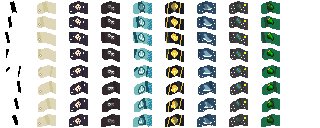
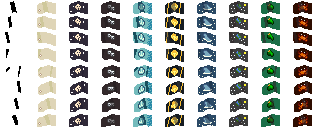
Created and implemented the King Crab flag

Changed region(s): [[0.9062, 0.5, 1.0, 1.0], [0.9062, 0.0, 1.0, 0.3438], [0.9062, 0.375, 1.0, 0.4688]]

diff --git a/FishingTrawler/FishingTrawler/FishingTrawler/Objects/TrawlerRewards.cs b/FishingTrawler/FishingTrawler/FishingTrawler/Objects/TrawlerRewards.cs
@@ -25,6 +25,7 @@ namespace FishingTrawler.Objects
         internal bool hasPatronSaint; // If true, 25% chance of consuming fish but gives full XP
         internal bool hasWorldly; // If true, allows catching of non-ocean fish
         internal bool hasSlimeKing; // If true, consumes all fish but gives a 75% chance of converting each fish into some slime, 50% chance to convert to a Slimejack and a 1% chance to convert into a random slime egg 
+        internal bool hasKingCrab; // If true, causes the trawler to only catch crab pot based creatures and higher chance of crab
 
         public TrawlerRewards(Chest rewardChest)
         {
@@ -43,6 +44,7 @@ namespace FishingTrawler.Objects
             hasPatronSaint = false;
             hasWorldly = false;
             hasSlimeKing = false;
+            hasKingCrab = false;
         }
 
         private int[] GetEligibleFishIds(bool allowCatchingOfNonOceanFish = false)
@@ -74,7 +76,7 @@ namespace FishingTrawler.Objects
             Dictionary<int, string> fishData = Game1.content.Load<Dictionary<int, string>>("Data\\Fish");
             eligibleFishIds.AddRange(fishData.Where(f => f.Value.Split('/')[1] == "trap").Select(f => f.Key).Where(i => !_forbiddenFish.Contains(i)));
 
-            return eligibleFishIds.ToArray();
+            return eligibleFishIds.Distinct().ToArray();
         }
 
         private int AttemptGamble(int amountOfFish)
@@ -394,13 +396,25 @@ namespace FishingTrawler.Objects
 
                     string[] specificFishData = fishData[Convert.ToInt32(keys[i])].Split('/');
 
+                    if (specificFishData[1] != "trap" && hasKingCrab)
+                    {
+                        // Skip any non-crab pot based creatures if King Crab is currently active
+                        continue;
+                    }
+
                     if (specificFishData[1] == "trap")
                     {
                         double chance = Convert.ToDouble(specificFishData[2]);
                         chance += (double)((float)_farmer.FishingLevel / 50f);
                         chance /= 1.2f;  // Reduce chance of trap-based catches by 1.2
-
                         chance = Math.Min(chance, 0.89999997615814209);
+
+                        if (hasKingCrab && keys[i] == 717) // 717 is crab
+                        {
+                            randomQuantity = Math.Min(Game1.random.Next(randomQuantity, amountOfFish), 99); // Attempt to boost the amount of crabs caught, but still limited to available fish to reward
+                            chance = 1; // Always give crab if it is selected as an option, as we want preference towards them
+                        }
+
                         if (Game1.random.NextDouble() <= chance)
                         {
                             caughtFish = true;

diff --git a/FishingTrawler/FishingTrawler/FishingTrawler/Objects/Rewards/AncientFlag.cs b/FishingTrawler/FishingTrawler/FishingTrawler/Objects/Rewards/AncientFlag.cs
@@ -23,7 +23,8 @@ namespace FishingTrawler.Objects.Rewards
         PatronSaint,
         SharksFin,
         Worldly,
-        SlimeKing
+        SlimeKing,
+        KingCrab
     }
 
     public class AncientFlag : Furniture, ISaveElement, ICustomObject
@@ -169,6 +170,8 @@ namespace FishingTrawler.Objects.Rewards
                     return ModEntry.i18n.Get("item.ancient_flag.worldly_flag.name");
                 case FlagType.SlimeKing:
                     return ModEntry.i18n.Get("item.ancient_flag.slime_king.name");
+                case FlagType.KingCrab:
+                    return ModEntry.i18n.Get("item.ancient_flag.king_crab.name");
                 default:
                     return ModEntry.i18n.Get("item.ancient_flag.unknown.name");
             }
@@ -194,6 +197,8 @@ namespace FishingTrawler.Objects.Rewards
                     return ModEntry.i18n.Get("item.ancient_flag.worldly_flag.description");
                 case FlagType.SlimeKing:
                     return ModEntry.i18n.Get("item.ancient_flag.slime_king.description");
+                case FlagType.KingCrab:
+                    return ModEntry.i18n.Get("item.ancient_flag.king_crab.description");
                 default:
                     return ModEntry.i18n.Get("item.ancient_flag.unknown.description");
             }

diff --git a/FishingTrawler/FishingTrawler/FishingTrawler/ModEntry.cs b/FishingTrawler/FishingTrawler/FishingTrawler/ModEntry.cs
@@ -313,6 +313,10 @@ namespace FishingTrawler
                         // Consumes all fish but gives a 75% chance of converting each fish into some slime, 50% chance to convert to a Slimejack and a 1% chance to convert into a random slime egg
                         _trawlerRewards.Value.hasSlimeKing = true;
                         break;
+                    case FlagType.KingCrab:
+                        // Causes the trawler to only catch crab pot based creatures, higher chance of crab
+                        _trawlerRewards.Value.hasKingCrab = true;
+                        break;
                     default:
                         // Do nothing
                         break;
